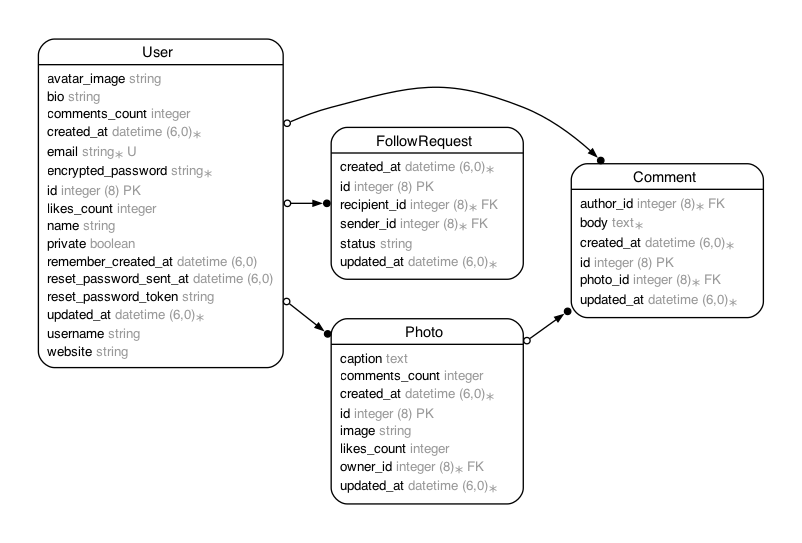
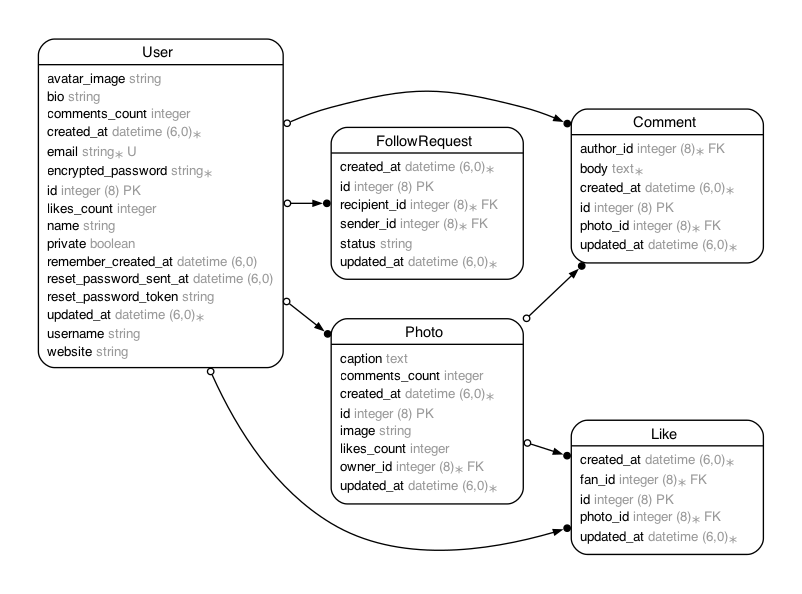
Generated likes

diff --git a/app/controllers/likes_controller.rb b/app/controllers/likes_controller.rb
@@ -1,0 +1,70 @@
+class LikesController < ApplicationController
+  before_action :set_like, only: %i[ show edit update destroy ]
+
+  # GET /likes or /likes.json
+  def index
+    @likes = Like.all
+  end
+
+  # GET /likes/1 or /likes/1.json
+  def show
+  end
+
+  # GET /likes/new
+  def new
+    @like = Like.new
+  end
+
+  # GET /likes/1/edit
+  def edit
+  end
+
+  # POST /likes or /likes.json
+  def create
+    @like = Like.new(like_params)
+
+    respond_to do |format|
+      if @like.save
+        format.html { redirect_to @like, notice: "Like was successfully created." }
+        format.json { render :show, status: :created, location: @like }
+      else
+        format.html { render :new, status: :unprocessable_entity }
+        format.json { render json: @like.errors, status: :unprocessable_entity }
+      end
+    end
+  end
+
+  # PATCH/PUT /likes/1 or /likes/1.json
+  def update
+    respond_to do |format|
+      if @like.update(like_params)
+        format.html { redirect_to @like, notice: "Like was successfully updated." }
+        format.json { render :show, status: :ok, location: @like }
+      else
+        format.html { render :edit, status: :unprocessable_entity }
+        format.json { render json: @like.errors, status: :unprocessable_entity }
+      end
+    end
+  end
+
+  # DELETE /likes/1 or /likes/1.json
+  def destroy
+    @like.destroy!
+
+    respond_to do |format|
+      format.html { redirect_to likes_path, status: :see_other, notice: "Like was successfully destroyed." }
+      format.json { head :no_content }
+    end
+  end
+
+  private
+    # Use callbacks to share common setup or constraints between actions.
+    def set_like
+      @like = Like.find(params.expect(:id))
+    end
+
+    # Only allow a list of trusted parameters through.
+    def like_params
+      params.expect(like: [ :fan_id, :photo_id ])
+    end
+end

diff --git a/db/schema.rb b/db/schema.rb
@@ -10,7 +10,7 @@
 #
 # It's strongly recommended that you check this file into your version control system.
 
-ActiveRecord::Schema[8.0].define(version: 2025_06_04_194342) do
+ActiveRecord::Schema[8.0].define(version: 2025_06_04_194741) do
   # These are extensions that must be enabled in order to support this database
   enable_extension "citext"
   enable_extension "pg_catalog.plpgsql"
@@ -40,6 +40,15 @@ ActiveRecord::Schema[8.0].define(version: 2025_06_04_194342) do
     t.datetime "updated_at", null: false
     t.index ["recipient_id"], name: "index_follow_requests_on_recipient_id"
     t.index ["sender_id"], name: "index_follow_requests_on_sender_id"
+  end
+
+  create_table "likes", force: :cascade do |t|
+    t.bigint "fan_id", null: false
+    t.bigint "photo_id", null: false
+    t.datetime "created_at", null: false
+    t.datetime "updated_at", null: false
+    t.index ["fan_id"], name: "index_likes_on_fan_id"
+    t.index ["photo_id"], name: "index_likes_on_photo_id"
   end
 
   create_table "movies", force: :cascade do |t|
@@ -229,6 +238,8 @@ ActiveRecord::Schema[8.0].define(version: 2025_06_04_194342) do
   add_foreign_key "comments", "users", column: "author_id"
   add_foreign_key "follow_requests", "users", column: "recipient_id"
   add_foreign_key "follow_requests", "users", column: "sender_id"
+  add_foreign_key "likes", "photos"
+  add_foreign_key "likes", "users", column: "fan_id"
   add_foreign_key "photos", "users", column: "owner_id"
   add_foreign_key "solid_queue_blocked_executions", "solid_queue_jobs", column: "job_id", on_delete: :cascade
   add_foreign_key "solid_queue_claimed_executions", "solid_queue_jobs", column: "job_id", on_delete: :cascade

diff --git a/app/models/like.rb b/app/models/like.rb
@@ -1,0 +1,24 @@
+# == Schema Information
+#
+# Table name: likes
+#
+#  id         :bigint           not null, primary key
+#  created_at :datetime         not null
+#  updated_at :datetime         not null
+#  fan_id     :bigint           not null
+#  photo_id   :bigint           not null
+#
+# Indexes
+#
+#  index_likes_on_fan_id    (fan_id)
+#  index_likes_on_photo_id  (photo_id)
+#
+# Foreign Keys
+#
+#  fk_rails_...  (fan_id => users.id)
+#  fk_rails_...  (photo_id => photos.id)
+#
+class Like < ApplicationRecord
+  belongs_to :fan, class_name: "User"
+  belongs_to :photo
+end

diff --git a/db/migrate/20250604194741_create_likes.rb b/db/migrate/20250604194741_create_likes.rb
@@ -1,0 +1,10 @@
+class CreateLikes < ActiveRecord::Migration[8.0]
+  def change
+    create_table :likes do |t|
+      t.references :fan, null: false, foreign_key: { to_table: :users }
+      t.references :photo, null: false, foreign_key: true
+
+      t.timestamps
+    end
+  end
+end

diff --git a/config/routes.rb b/config/routes.rb
@@ -1,4 +1,5 @@
 Rails.application.routes.draw do
+  resources :likes
   resources :follow_requests
   resources :comments
   resources :photos
